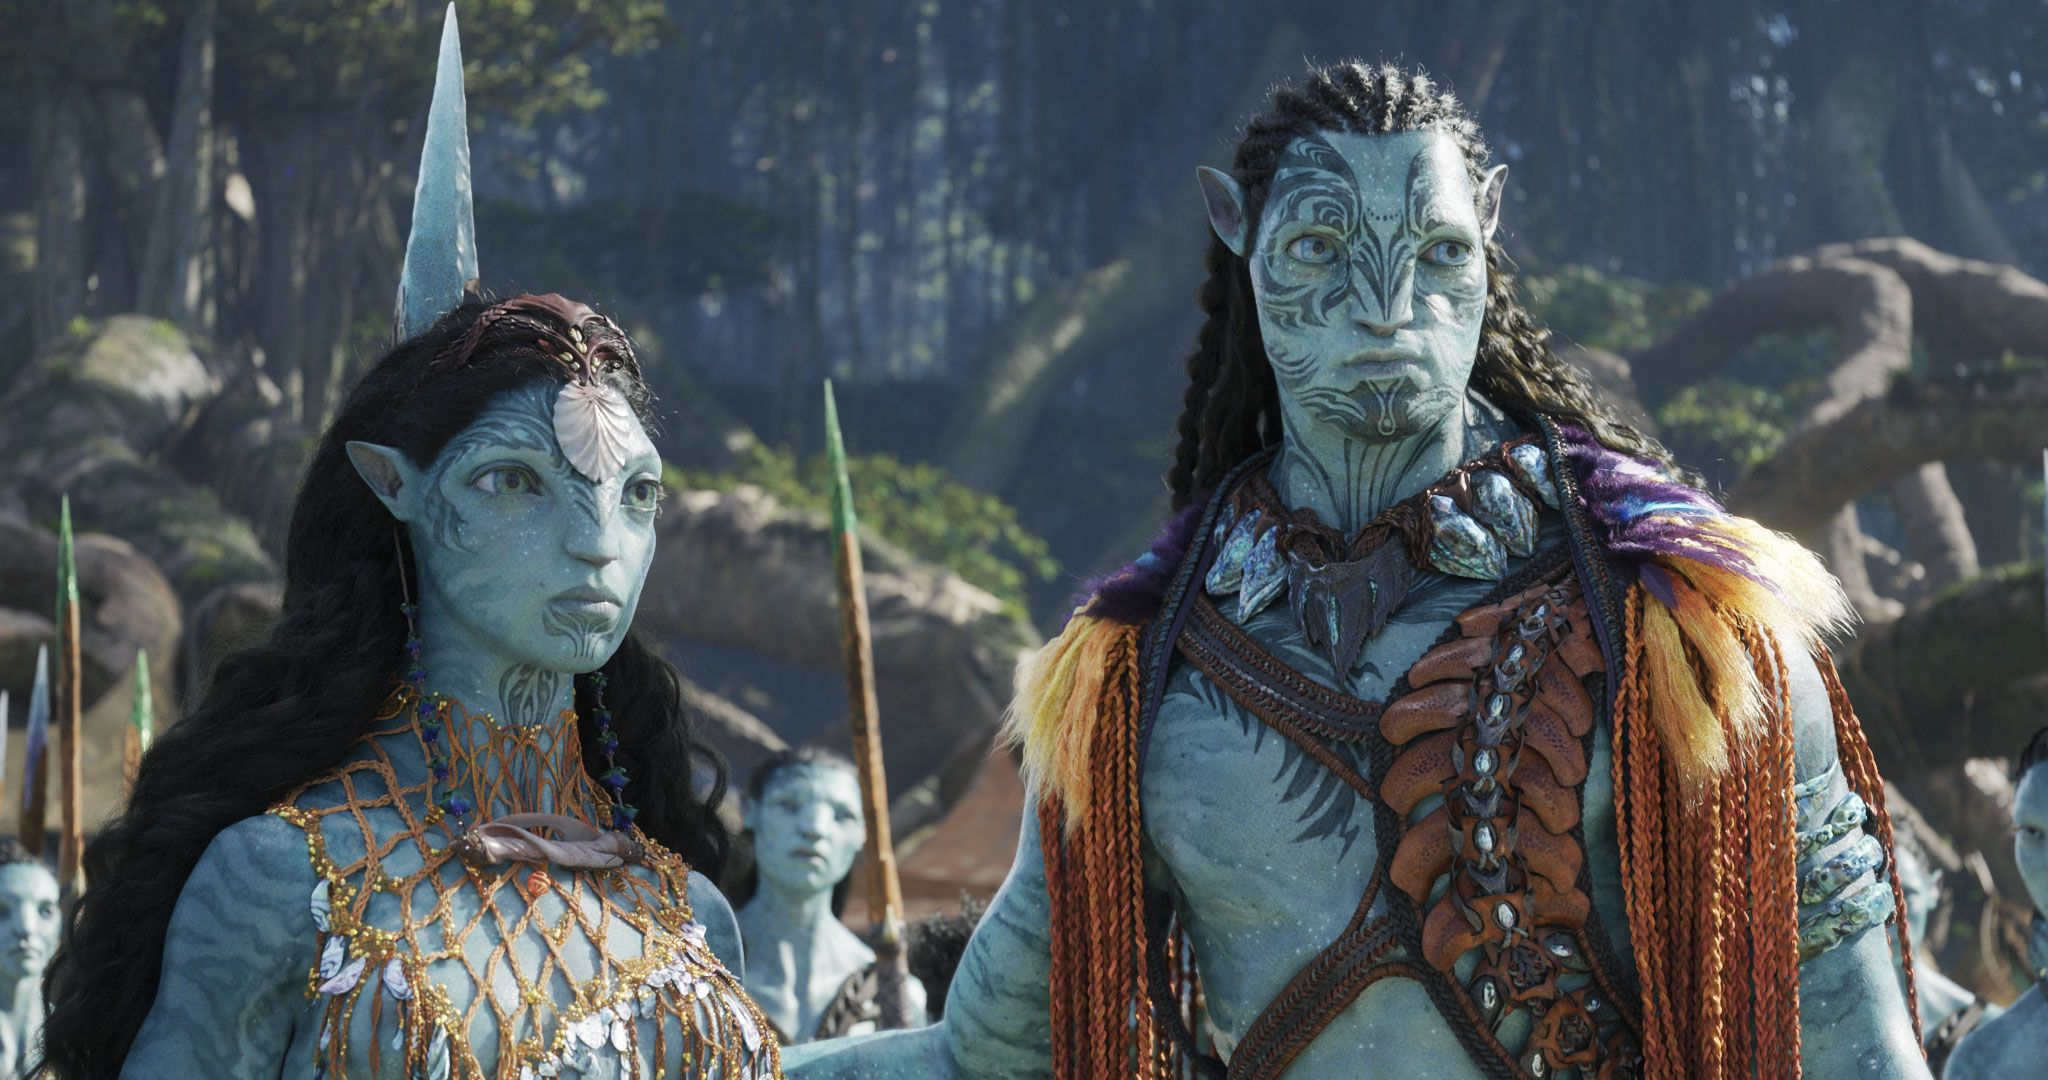
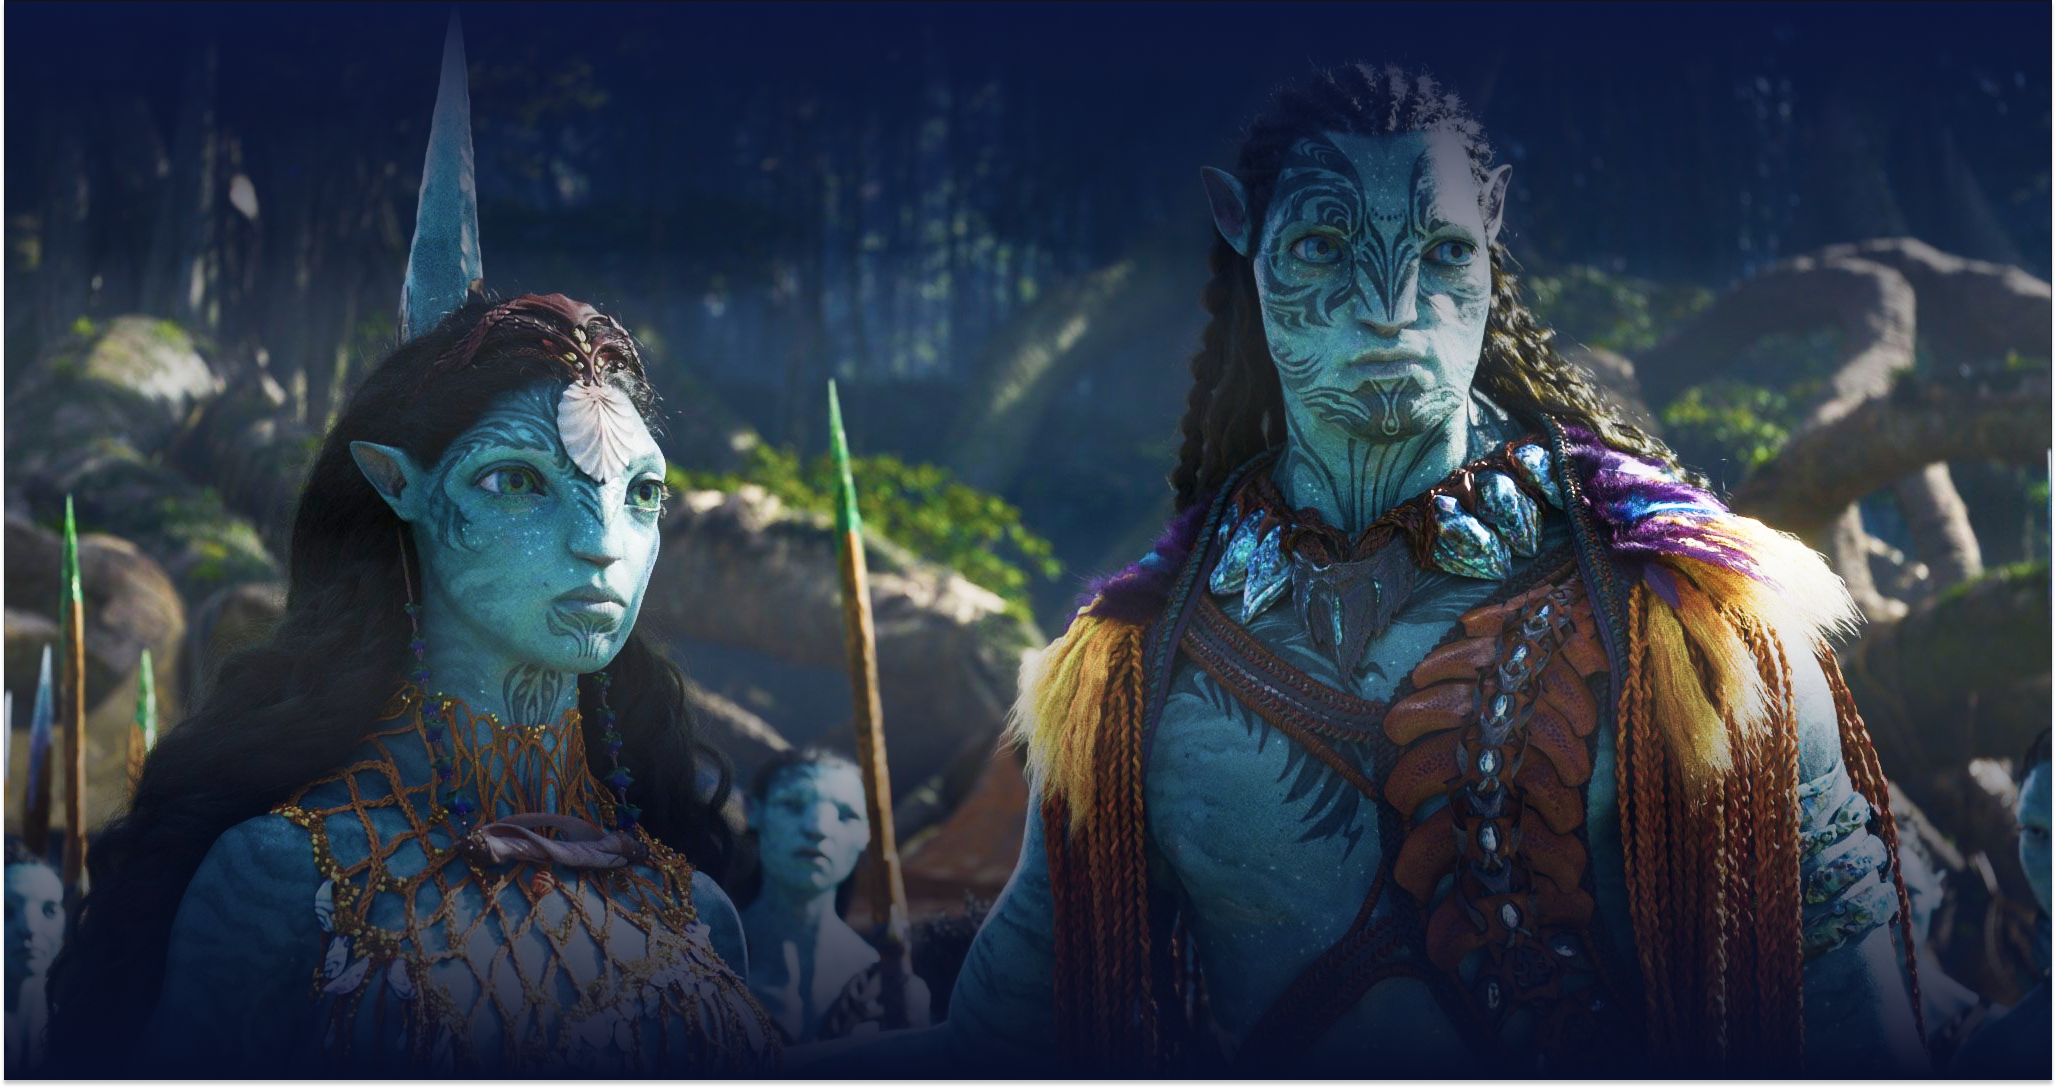
carousel imagenes

diff --git a/src/app/pages/home/home.component.html b/src/app/pages/home/home.component.html
@@ -129,10 +129,10 @@
         class="search flex items-center rounded-3xl border-4 border-stone-400"
       >
         <div class="relative">
-          --><input
+          <input
             type="text"
             id="simple-search"
-            class="border-gray-300 text-gray-900 text-sm rounded-3xl focus:ring-blue-500 focus:border-blue-500 block w-full pl-10 p-2.5 dark:bg-gray-700 dark:border-gray-600 dark:placeholder-gray-400 dark:text-white dark:focus:ring-blue-500 dark:focus:border-blue-500 placeholder:mr-5 font-normal place"
+            class="border-gray-300 text-gray-900 text-sm rounded-3xl focus:ring-blue-500 focus:border-blue-500 block w-full pl-10 p-2.5 dark:bg-gray-700 dark:border-gray-600 dark:placeholder-gray-400 dark:text-white dark:focus:ring-blue-500 dark:focus:border-blue-500 placeholder:mr-5 font-normal place placeholder"
             placeholder="Buscar películas..."
             required
           />
@@ -163,118 +163,118 @@
       </button>
     </div>
   </nav>
-  <!-- *********************************** CARROUSEL **************************-->
+</div>
+<!-- *********************************** CARROUSEL **************************-->
 
-  <div id="default-carousel" class="relative" data-carousel="static">
-    <!-- Carousel wrapper -->
-    <div class="relative h-56 overflow-hidden rounded-lg md:h-96">
-      <!-- Item 1 -->
-      <div class="hidden duration-700 ease-in-out" data-carousel-item>
-        <span
-          class="absolute text-2xl font-semibold text-white -translate-x-1/2 -translate-y-1/2 top-1/2 left-1/2 sm:text-3xl dark:text-gray-800"
-          >First Slide</span
-        >
-        <img
-          src="/docs/images/carousel/carousel-1.svg"
-          class="absolute block w-full -translate-x-1/2 -translate-y-1/2 top-1/2 left-1/2"
-          alt="..."
-        />
-      </div>
-      <!-- Item 2 -->
-      <div class="hidden duration-700 ease-in-out" data-carousel-item>
-        <img
-          src="/docs/images/carousel/carousel-2.svg"
-          class="absolute block w-full -translate-x-1/2 -translate-y-1/2 top-1/2 left-1/2"
-          alt="..."
-        />
-      </div>
-      <!-- Item 3 -->
-      <div class="hidden duration-700 ease-in-out" data-carousel-item>
-        <img
-          src="/docs/images/carousel/carousel-3.svg"
-          class="absolute block w-full -translate-x-1/2 -translate-y-1/2 top-1/2 left-1/2"
-          alt="..."
-        />
-      </div>
-    </div>
-    <!-- Slider indicators -->
+<div id="default-carousel" class="relative" data-carousel="static">
+  <!-- Carousel wrapper -->
+  <div class="relative h-56 overflow-hidden md:h-[34rem]">
+    <!-- Item 1 -->
     <div
-      class="absolute z-30 flex space-x-3 -translate-x-1/2 bottom-5 left-1/2"
+      class="hidden duration-700 ease-in-out carousel-img"
+      data-carousel-item
     >
-      <button
-        type="button"
-        class="w-3 h-3 rounded-full"
-        aria-current="false"
-        aria-label="Slide 1"
-        data-carousel-slide-to="0"
-      ></button>
-      <button
-        type="button"
-        class="w-3 h-3 rounded-full"
-        aria-current="false"
-        aria-label="Slide 2"
-        data-carousel-slide-to="1"
-      ></button>
-      <button
-        type="button"
-        class="w-3 h-3 rounded-full"
-        aria-current="false"
-        aria-label="Slide 3"
-        data-carousel-slide-to="2"
-      ></button>
+      <span
+        class="absolute text-2xl font-semibold text-white -translate-x-1/2 -translate-y-1/2 top-1/2 left-1/2 sm:text-3xl dark:text-gray-800"
+        >First Slide</span
+      >
     </div>
-    <!-- Slider controls -->
-    <button
-      type="button"
-      class="absolute top-0 left-0 z-30 flex items-center justify-center h-full px-4 cursor-pointer group focus:outline-none"
-      data-carousel-prev
-    >
-      <span
-        class="inline-flex items-center justify-center w-8 h-8 rounded-full sm:w-10 sm:h-10 bg-white/30 dark:bg-gray-800/30 group-hover:bg-white/50 dark:group-hover:bg-gray-800/60 group-focus:ring-4 group-focus:ring-white dark:group-focus:ring-gray-800/70 group-focus:outline-none"
-      >
-        <svg
-          aria-hidden="true"
-          class="w-5 h-5 text-white sm:w-6 sm:h-6 dark:text-gray-800"
-          fill="none"
-          stroke="currentColor"
-          viewBox="0 0 24 24"
-          xmlns="http://www.w3.org/2000/svg"
-        >
-          <path
-            stroke-linecap="round"
-            stroke-linejoin="round"
-            stroke-width="2"
-            d="M15 19l-7-7 7-7"
-          ></path>
-        </svg>
-        <span class="sr-only">Previous</span>
-      </span>
-    </button>
-    <button
-      type="button"
-      class="absolute top-0 right-0 z-30 flex items-center justify-center h-full px-4 cursor-pointer group focus:outline-none"
-      data-carousel-next
-    >
-      <span
-        class="inline-flex items-center justify-center w-8 h-8 rounded-full sm:w-10 sm:h-10 bg-white/30 dark:bg-gray-800/30 group-hover:bg-white/50 dark:group-hover:bg-gray-800/60 group-focus:ring-4 group-focus:ring-white dark:group-focus:ring-gray-800/70 group-focus:outline-none"
-      >
-        <svg
-          aria-hidden="true"
-          class="w-5 h-5 text-white sm:w-6 sm:h-6 dark:text-gray-800"
-          fill="none"
-          stroke="currentColor"
-          viewBox="0 0 24 24"
-          xmlns="http://www.w3.org/2000/svg"
-        >
-          <path
-            stroke-linecap="round"
-            stroke-linejoin="round"
-            stroke-width="2"
-            d="M9 5l7 7-7 7"
-          ></path>
-        </svg>
-        <span class="sr-only">Next</span>
-      </span>
-    </button>
+    <!-- Item 2 -->
+    <div
+      class="hidden duration-700 ease-in-out carousel-img2"
+      data-carousel-item
+    ></div>
+    <!-- Item 3 -->
+    <div
+      class="hidden duration-700 ease-in-out carousel-img3"
+      data-carousel-item
+    ></div>
+    <!-- Item 4 -->
+    <div
+      class="hidden duration-700 ease-in-out carousel-img4"
+      data-carousel-item
+    ></div>
+    <!-- Item 5 -->
+    <div
+      class="hidden duration-700 ease-in-out carousel-img5"
+      data-carousel-item
+    ></div>
   </div>
+  <!-- Slider indicators -->
+  <div class="absolute z-30 flex space-x-3 -translate-x-1/2 bottom-5 left-1/2">
+    <button
+      type="button"
+      class="w-3 h-3 rounded-full"
+      aria-current="false"
+      aria-label="Slide 1"
+      data-carousel-slide-to="0"
+    ></button>
+    <button
+      type="button"
+      class="w-3 h-3 rounded-full"
+      aria-current="false"
+      aria-label="Slide 2"
+      data-carousel-slide-to="1"
+    ></button>
+    <button
+      type="button"
+      class="w-3 h-3 rounded-full"
+      aria-current="false"
+      aria-label="Slide 3"
+      data-carousel-slide-to="2"
+    ></button>
+  </div>
+  <!-- Slider controls -->
+  <button
+    type="button"
+    class="absolute top-0 left-0 z-30 flex items-center justify-center h-full px-4 cursor-pointer group focus:outline-none"
+    data-carousel-prev
+  >
+    <span
+      class="inline-flex items-center justify-center w-8 h-8 rounded-full sm:w-10 sm:h-10 bg-white/30 dark:bg-gray-800/30 group-hover:bg-white/50 dark:group-hover:bg-gray-800/60 group-focus:ring-4 group-focus:ring-white dark:group-focus:ring-gray-800/70 group-focus:outline-none"
+    >
+      <svg
+        aria-hidden="true"
+        class="w-5 h-5 text-white sm:w-6 sm:h-6 dark:text-gray-800"
+        fill="none"
+        stroke="currentColor"
+        viewBox="0 0 24 24"
+        xmlns="http://www.w3.org/2000/svg"
+      >
+        <path
+          stroke-linecap="round"
+          stroke-linejoin="round"
+          stroke-width="2"
+          d="M15 19l-7-7 7-7"
+        ></path>
+      </svg>
+      <span class="sr-only">Previous</span>
+    </span>
+  </button>
+  <button
+    type="button"
+    class="absolute top-0 right-0 z-30 flex items-center justify-center h-full px-4 cursor-pointer group focus:outline-none"
+    data-carousel-next
+  >
+    <span
+      class="inline-flex items-center justify-center w-8 h-8 rounded-full sm:w-10 sm:h-10 bg-white/30 dark:bg-gray-800/30 group-hover:bg-white/50 dark:group-hover:bg-gray-800/60 group-focus:ring-4 group-focus:ring-white dark:group-focus:ring-gray-800/70 group-focus:outline-none"
+    >
+      <svg
+        aria-hidden="true"
+        class="w-5 h-5 text-white sm:w-6 sm:h-6 dark:text-gray-800"
+        fill="none"
+        stroke="currentColor"
+        viewBox="0 0 24 24"
+        xmlns="http://www.w3.org/2000/svg"
+      >
+        <path
+          stroke-linecap="round"
+          stroke-linejoin="round"
+          stroke-width="2"
+          d="M9 5l7 7-7 7"
+        ></path>
+      </svg>
+      <span class="sr-only">Next</span>
+    </span>
+  </button>
 </div>

diff --git a/src/app/pages/home/home.component.css b/src/app/pages/home/home.component.css
@@ -17,10 +17,54 @@ svg {
 }
 
 input {
-  transition: 0.3s ease-in-out;
+  transition: all 0.3s ease-in-out;
   background-color: rgb(18, 20, 39);
 }
 
 input:focus {
   width: 250px;
+  transition: all 0.3s;
+}
+
+.carousel-img {
+  background-image: url("../../img/adam.png");
+  background-position: center center;
+  background-size: cover;
+}
+
+.carousel-img2 {
+  background-image: url("../../img/avatar.png");
+  background-position: center center;
+  background-size: cover;
+}
+.carousel-img3 {
+  background-image: url("../../img/galaxia.png");
+  background-position: center center;
+  background-size: cover;
+}
+
+.carousel-img4 {
+  background-image: url("../../img/gato.png");
+  background-position: center center;
+  background-size: cover;
+}
+
+.carousel-img5 {
+  background-image: url("../../img/megan.jpg");
+  background-position: center center;
+  background-size: cover;
+}
+
+@media (min-width: 768px) {
+}
+
+@media screen and (min-width: 1024px) {
+}
+
+@media screen and (max-width: 1200px) {
+  input:focus {
+    width: 190px;
+    position: relative;
+    left: -5px;
+  }
 }
